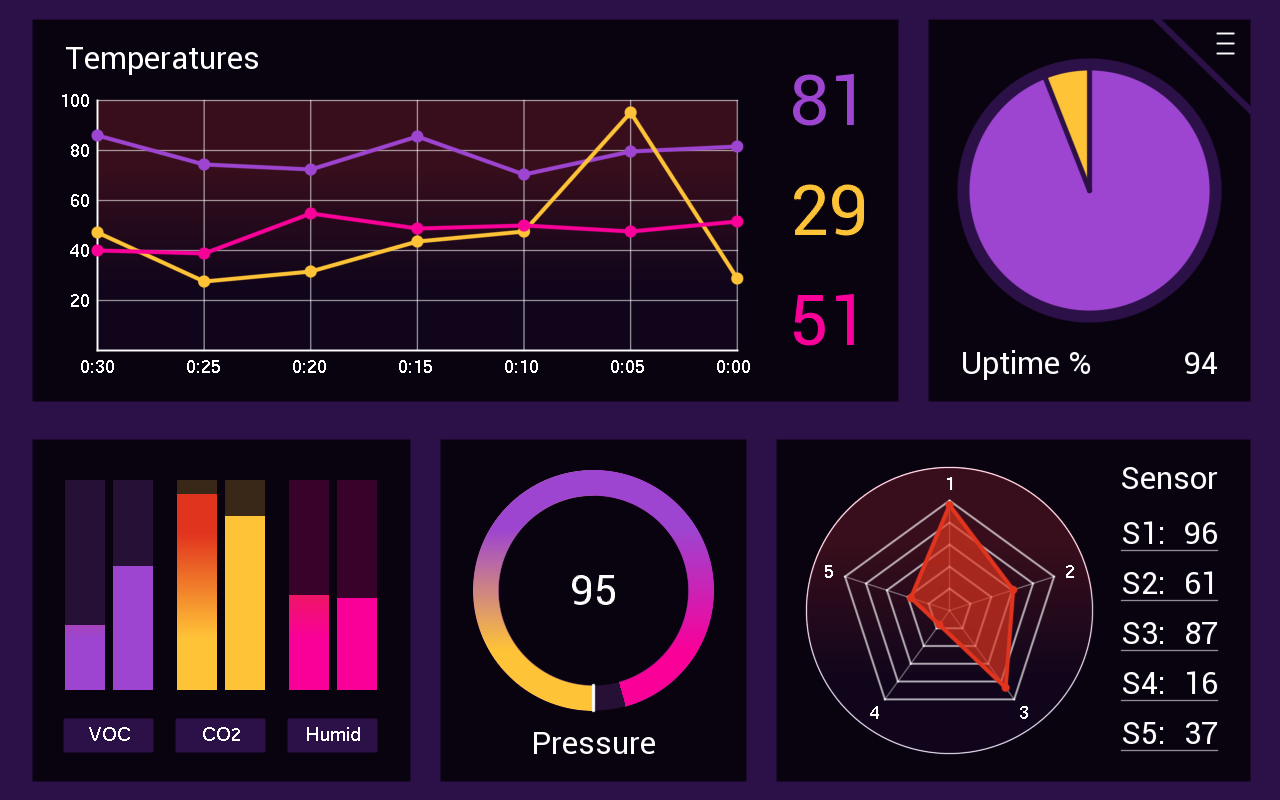
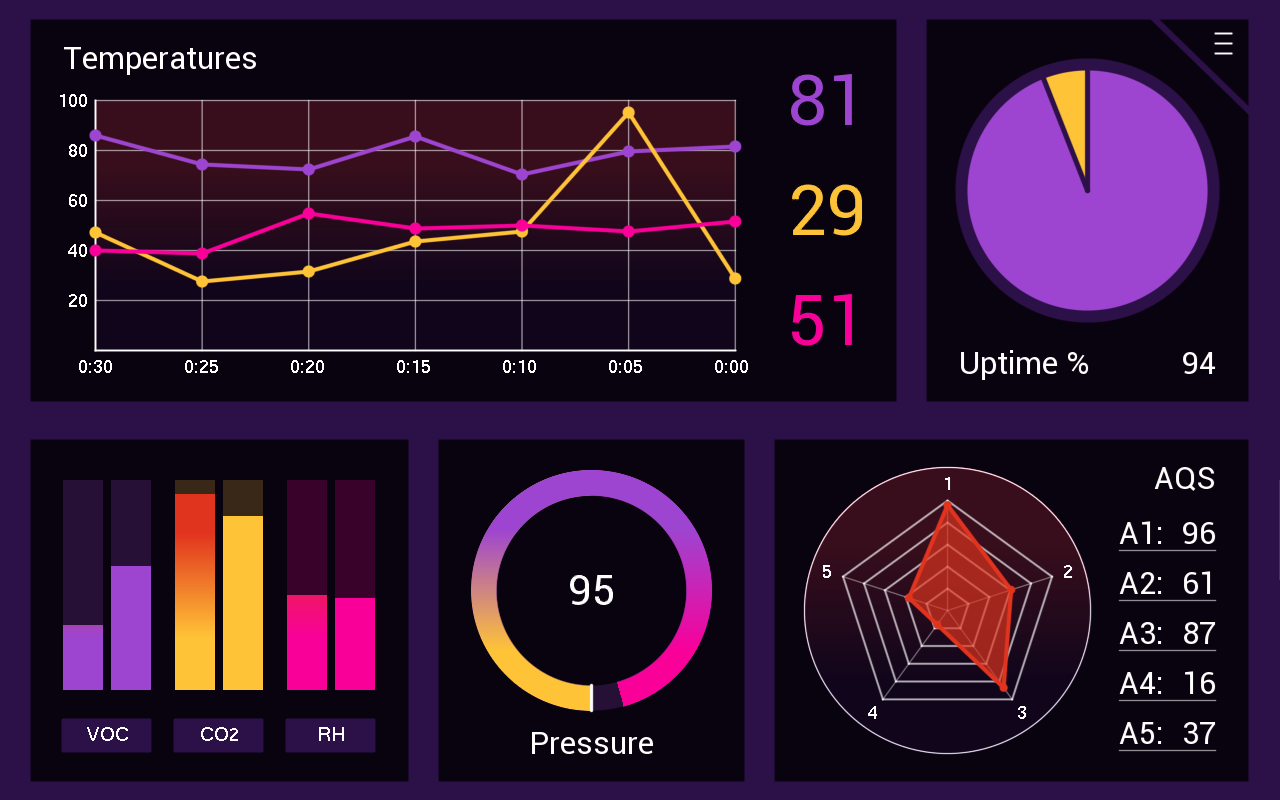
update radar plot title

diff --git a/examples/datavisualiser/common/eve_example.c b/examples/datavisualiser/common/eve_example.c
@@ -444,6 +444,7 @@ static inline int16_t scalePosition(uint32_t size, uint16_t num, uint16_t den)
  */
 static void addRectangularGradient(int16_t grad_x, int16_t grad_y, uint16_t width, uint16_t height, uint32_t colour1, uint32_t colour2, bool alpha_compositing, bool mirror, bool vert)
 {
+    
     // scissor to the size of the gradient we want to create
     // this is required as we are using the wrapx/wrapy = REPEAT in the BITMAP_SIZE
     // call which requires the values to be a power of 2 for height or width or
@@ -606,6 +607,7 @@ static void addRectangularGradient(int16_t grad_x, int16_t grad_y, uint16_t widt
  */
 static void circleGaugeShadow(int16_t centre_x, int16_t centre_y, uint16_t radius, uint16_t thickness, uint16_t user_value)
 {
+
     // local variable for arc fill in degrees
     uint16_t arc_degrees = (uint16_t)((360UL * user_value) / 0xffffUL);
     // Ensure the arc_degrees is within limits (0 - 360)
@@ -832,6 +834,7 @@ static void circleGaugeShadow(int16_t centre_x, int16_t centre_y, uint16_t radiu
  * @param x_axis_labels pointer to array of chars for x axis labels
  */
 static void addLinePlotLinesAndLabels(int16_t input_x, int16_t input_y, uint16_t width, uint16_t height, uint8_t num_x_lines, uint8_t num_y_lines, uint8_t line_width, uint8_t font_handle, const uint8_t* y_axis_labels, const char* const* x_axis_labels) {
+    
     // ensure num_X_lines and num_y_lines are non-zero
     num_x_lines = MAX(num_x_lines, 1);
     num_y_lines = MAX(num_y_lines, 1);
@@ -850,7 +853,6 @@ static void addLinePlotLinesAndLabels(int16_t input_x, int16_t input_y, uint16_t
 
     // set line colour
     EVE_COLOR_RGB(255, 255, 255); // white
-
     // set line width
     EVE_LINE_WIDTH((line_width * 16) / 2);
     // draw X and Y axis main lines
@@ -883,6 +885,7 @@ static void addLinePlotLinesAndLabels(int16_t input_x, int16_t input_y, uint16_t
     for (uint16_t i = 0; i < num_y_lines; i++) {
         EVE_CMD_NUMBER((input_x - (text_offset / 2)), (input_y + (i * (y_line_spacing / pix_precision))), font_handle, EVE_OPT_RIGHTX | EVE_OPT_CENTERY, y_axis_labels[i]);
     }
+
     // restore context
     EVE_RESTORE_CONTEXT();
 
@@ -913,10 +916,8 @@ static void linePlot(int16_t input_x, int16_t input_y, uint16_t width, uint16_t 
 
     // set line colour from input
     EVE_COLOR_RGB(((uint8_t)(colour >> 16)), ((uint8_t)(colour >> 8)), ((uint8_t)(colour)));
-
     // set line width from input
     EVE_LINE_WIDTH(line_width * 16);
-
     // draw main plot line
     EVE_BEGIN(EVE_BEGIN_LINE_STRIP);
     for (uint16_t i = 0; i < num_points; i++) {
@@ -946,6 +947,7 @@ static void linePlot(int16_t input_x, int16_t input_y, uint16_t width, uint16_t 
         EVE_VERTEX2F(((input_x * pix_precision) + (i * point_spacing)), ((input_y + height - value) * pix_precision));
     }
     EVE_END();
+
     // restore context
     EVE_RESTORE_CONTEXT();
 
@@ -1022,6 +1024,7 @@ static void verticalBarGauge(int16_t input_x, int16_t input_y, uint16_t width, u
     }
     // end drawing
     EVE_END();
+
     // restore graphics context
     EVE_RESTORE_CONTEXT();
 
@@ -1045,6 +1048,7 @@ static void verticalBarGauge(int16_t input_x, int16_t input_y, uint16_t width, u
  */
 static void pieOrDoughnutChartSegment(int16_t chart_center_x, int16_t chart_center_y, uint16_t radius, bool doughnut, uint16_t start_angle, uint16_t end_angle)
 {
+
     // Ensure the radius does not exceed max point size
     radius = MIN(radius, 511);
     // Draw in reverse if end_angle > start_angle
@@ -1172,6 +1176,7 @@ static void pieOrDoughnutChartSegment(int16_t chart_center_x, int16_t chart_cent
     EVE_POINT_SIZE(radius * 16);
     // place at the center of the circle the pie segment sits inside
     EVE_VERTEX2F((chart_center_x * pix_precision), (chart_center_y * pix_precision));
+
     // Restore previous graphics context
     EVE_RESTORE_CONTEXT();
 
@@ -1185,6 +1190,7 @@ static void pieOrDoughnutChartSegment(int16_t chart_center_x, int16_t chart_cent
  * @param uptime variable used to determine the draw size of the two pie chart segments
  */
 static void pieChart(uint8_t uptime) {
+    
     // Ensure the uptime is within limits (0 - 100)
     uptime = MAX(uptime, 0);
     uptime = MIN(uptime, 100);
@@ -1223,6 +1229,7 @@ static void pieChart(uint8_t uptime) {
         // add pie chart segment onto the screen
         pieOrDoughnutChartSegment(pie_chart_x, pie_chart_y, pie_chart_radius, false, 0, 0);
     }
+
     // Restore previous graphics context
     EVE_RESTORE_CONTEXT();
 
@@ -1245,12 +1252,12 @@ static void pieChart(uint8_t uptime) {
  * @param pressed pressed state boolean for the button
  */
 static void circularButton(int16_t input_x, int16_t input_y, uint16_t size, uint32_t colour, uint32_t colour_pressed, uint32_t colour_text, uint8_t font_handle, const char* text, uint8_t tag, bool pressed) {
+    
     // save context
     EVE_SAVE_CONTEXT();
 
     // set full alpha
     EVE_COLOR_A(255);
-
     // begin points
     EVE_BEGIN(EVE_BEGIN_POINTS);
     // if the button isn't pressed in, draw a highlight at the top left/bottom right edges
@@ -1282,16 +1289,12 @@ static void circularButton(int16_t input_x, int16_t input_y, uint16_t size, uint
     EVE_TAG_MASK(1);
     // set input tag
     EVE_TAG(tag);
-
     // draw main point
     EVE_VERTEX2F((input_x * pix_precision), (input_y * pix_precision));
-
     // end points
     EVE_END();
-
     // disable tagging
     EVE_TAG_MASK(0);
-
     // place some text in the middle of the button
     // colour based on input
     EVE_COLOR_RGB(((uint8_t)(colour_text >> 16)), ((uint8_t)(colour_text >> 8)), ((uint8_t)(colour_text)));
@@ -1517,6 +1520,7 @@ static void radarPlot(uint16_t centre_x, uint16_t centre_y, int16_t line_width, 
         // Convert from vertex units to pixel coordinates
         EVE_CMD_NUMBER((label_x / pix_precision), (label_y / pix_precision), font_handle, EVE_OPT_CENTER, (i + 1));
     }
+
     // restore graphics context
     EVE_RESTORE_CONTEXT();
 
@@ -1536,6 +1540,7 @@ static void addBackgroundBoxes(uint8_t alpha, uint32_t colour) {
 
     // save context
     EVE_SAVE_CONTEXT();
+
     // background boxes
     EVE_BEGIN(EVE_BEGIN_RECTS);
     // set line width
@@ -1562,6 +1567,7 @@ static void addBackgroundBoxes(uint8_t alpha, uint32_t colour) {
     EVE_VERTEX2F((circle_gauge_box_end_x * pix_precision), (circle_gauge_box_end_y * pix_precision));
     // end rects
     EVE_END();
+
     // restore context
     EVE_RESTORE_CONTEXT();
 
@@ -1576,6 +1582,7 @@ static void addBarGaugeLabelBoxes(uint32_t colour) {
 
     // save context
     EVE_SAVE_CONTEXT();
+
     // begin drawing rectangles
     EVE_BEGIN(EVE_BEGIN_RECTS);
     EVE_COLOR_RGB(((uint8_t)(colour >> 16)), ((uint8_t)(colour >> 8)), ((uint8_t)(colour)));
@@ -1592,6 +1599,7 @@ static void addBarGaugeLabelBoxes(uint32_t colour) {
     EVE_VERTEX2F(((bargauge_x[5] + bargauge_width - 2) * pix_precision), ((bargauge_label_y + bargauge_label_height) * pix_precision)); // -2 is the line width set above
     // end drawing rectangles
     EVE_END();
+
     // restore context
     EVE_RESTORE_CONTEXT();
 }
@@ -1608,6 +1616,7 @@ static void addRadarPlotBG(uint16_t radius) {
 
     // save context
     EVE_SAVE_CONTEXT();
+
     // enable alpha only for stencil and buffer clear
     EVE_COLOR_MASK(0, 0, 0, 1);
     // Scissor for the size of the cutout + outline we wish to draw
@@ -1671,6 +1680,7 @@ static void addRadarPlotBG(uint16_t radius) {
     EVE_VERTEX2F((radar_plot_x * pix_precision), (radar_plot_y * pix_precision));
     // end drawing
     EVE_END();
+
     // restore context
     EVE_RESTORE_CONTEXT();
 }
@@ -1682,6 +1692,7 @@ static void addRadarPlotReadoutLines(void) {
 
     // Save context
     EVE_SAVE_CONTEXT();
+
     // white
     EVE_COLOR_RGB(255, 255, 255);
     // set alpha
@@ -1697,6 +1708,7 @@ static void addRadarPlotReadoutLines(void) {
     }
     // end drawing
     EVE_END();
+
     // restore context
     EVE_RESTORE_CONTEXT();
 }
@@ -1847,6 +1859,7 @@ static void settingsOptionMenu(int16_t input_x, int16_t input_y, uint16_t length
     // add text labels
     EVE_CMD_TEXT(text1_x, input_y, font_med, EVE_OPT_CENTER, "Mode");
     EVE_CMD_TEXT(text2_x, input_y, font_med, EVE_OPT_CENTER, "LCD");
+
     // restore context
     EVE_RESTORE_CONTEXT();
 
@@ -1861,6 +1874,7 @@ static void LCDBacklightPage(void) {
 
     // save context
     EVE_SAVE_CONTEXT();
+
     // set desired colour
     EVE_COLOR_RGB(((uint8_t)(colour1 >> 16)), ((uint8_t)(colour1 >> 8)), ((uint8_t)(colour1)));
     // add arc simple gauge onto the screen to act as input control
@@ -1944,6 +1958,7 @@ static void modePage(void) {
  *   the CMD_APPEND command.
  */
 static void generateStaticScreenComponents(void) {
+    
     //------------------------------------------------------------------------------
     // Construct display list to copy into RAM_DL
     //------------------------------------------------------------------------------
@@ -1969,9 +1984,8 @@ static void generateStaticScreenComponents(void) {
     EVE_TAG_MASK(0);
     // add background boxes
     //------------------------------------------------------------------------------
-
     addBackgroundBoxes(200, colourBGBox);
-
+  
     // add line plot outline onto the screen
     //------------------------------------------------------------------------------
     // white
@@ -1984,12 +1998,11 @@ static void generateStaticScreenComponents(void) {
     addRectangularGradient(line_plot_x, line_plot_y, line_plot_width, line_plot_height, colour4, colourBG, false, true, true);
     // reset alpha
     EVE_COLOR_A(255);
-
     // add graph lines and labels
     addLinePlotLinesAndLabels(line_plot_x, line_plot_y, line_plot_width, line_plot_height, line_plot_extra_x_lines, line_plot_extra_y_lines, line_plot_line_width, font_small, y_axis_labels, x_axis_labels);
+   
     // add settings menu button
     //------------------------------------------------------------------------------
-
     addSettingsButton(colourBG);
 
     // add label boxes and text for bar gauges
@@ -1999,7 +2012,7 @@ static void generateStaticScreenComponents(void) {
     // add text labels for bar gauges
     EVE_CMD_TEXT(((bargauge_x[0] + bargauge_x[1] + bargauge_width) / 2), (bargauge_label_y + (bargauge_label_height / 2) - 1), font_small, EVE_OPT_CENTER, "VOC");
     EVE_CMD_TEXT(((bargauge_x[2] + bargauge_x[3] + bargauge_width) / 2), (bargauge_label_y + (bargauge_label_height / 2) - 1), font_small, EVE_OPT_CENTER, "CO2");
-    EVE_CMD_TEXT(((bargauge_x[4] + bargauge_x[5] + bargauge_width) / 2), (bargauge_label_y + (bargauge_label_height / 2) - 1), font_small, EVE_OPT_CENTER, "Humid");
+    EVE_CMD_TEXT(((bargauge_x[4] + bargauge_x[5] + bargauge_width) / 2), (bargauge_label_y + (bargauge_label_height / 2) - 1), font_small, EVE_OPT_CENTER, "RH");
 
     // add text for circle gauge
     //------------------------------------------------------------------------------
@@ -2009,13 +2022,13 @@ static void generateStaticScreenComponents(void) {
     //------------------------------------------------------------------------------
     addRadarPlotBG(radar_plot_radius);
     // add main label
-    EVE_CMD_TEXT(radar_plot_label_x, radar_plot_label_y, font_med, EVE_OPT_RIGHTX, "Sensor");
+    EVE_CMD_TEXT(radar_plot_label_x, radar_plot_label_y, font_med, EVE_OPT_RIGHTX, "AQS");
     // add labels for readouts
-    EVE_CMD_TEXT(radar_plot_num_label_x, radar_plot_num1_y, font_med, 0, "S1:");
-    EVE_CMD_TEXT(radar_plot_num_label_x, radar_plot_num2_y, font_med, 0, "S2:");
-    EVE_CMD_TEXT(radar_plot_num_label_x, radar_plot_num3_y, font_med, 0, "S3:");
-    EVE_CMD_TEXT(radar_plot_num_label_x, radar_plot_num4_y, font_med, 0, "S4:");
-    EVE_CMD_TEXT(radar_plot_num_label_x, radar_plot_num5_y, font_med, 0, "S5:");
+    EVE_CMD_TEXT(radar_plot_num_label_x, radar_plot_num1_y, font_med, 0, "A1:");
+    EVE_CMD_TEXT(radar_plot_num_label_x, radar_plot_num2_y, font_med, 0, "A2:");
+    EVE_CMD_TEXT(radar_plot_num_label_x, radar_plot_num3_y, font_med, 0, "A3:");
+    EVE_CMD_TEXT(radar_plot_num_label_x, radar_plot_num4_y, font_med, 0, "A4:");
+    EVE_CMD_TEXT(radar_plot_num_label_x, radar_plot_num5_y, font_med, 0, "A5:");
     // add readout lines
     addRadarPlotReadoutLines();
 
